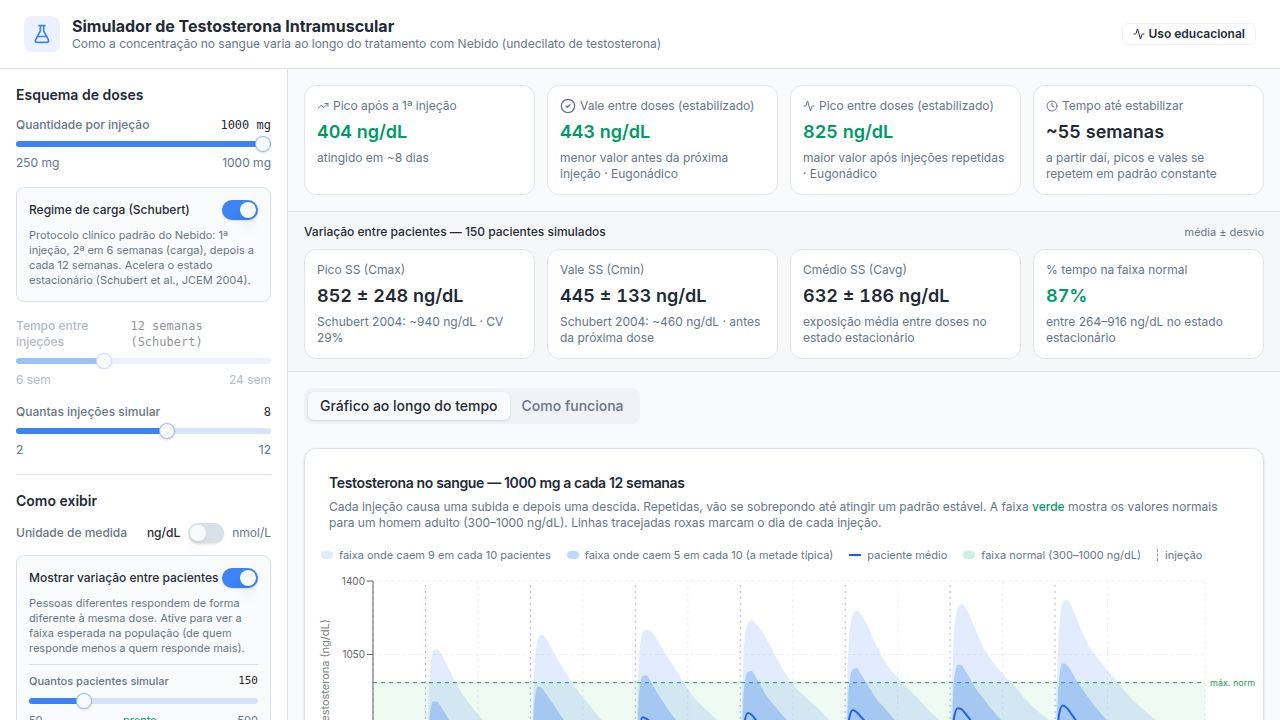
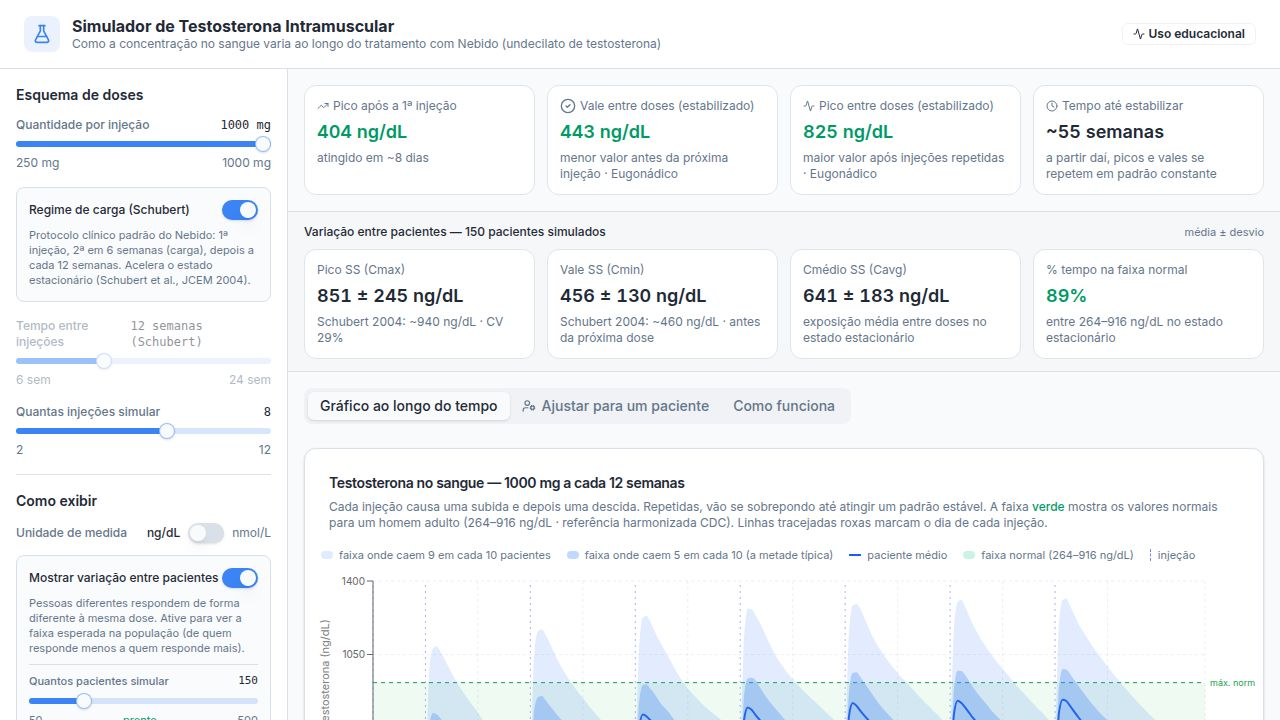
Update patient calculator to recommend optimal dosing intervals
Refactor PK engine to prioritize target average concentration and adjust UI for new input fields.

Replit-Commit-Author: Agent
Replit-Commit-Session-Id: 86e21b72-0a10-403e-b09f-dd4ca271f1e9
Replit-Commit-Checkpoint-Type: full_checkpoint
Replit-Commit-Event-Id: d2935164-4149-48c7-951f-9a43c06ecb1f
Replit-Commit-Screenshot-Url: https://storage.googleapis.com/screenshot-production-us-central1/eb01094f-dc53-41cd-80e8-84685250eafb/86e21b72-0a10-403e-b09f-dd4ca271f1e9/sl7JSYE
Replit-Helium-Checkpoint-Created: true

diff --git a/artifacts/pk-simulator/src/pages/simulator.tsx b/artifacts/pk-simulator/src/pages/simulator.tsx
@@ -219,7 +219,7 @@ export default function Simulator() {
     intervaloSemanas: "12",
     cmaxObs: "",
     cminObs: "",
-    cavgObs: "",
+    cavgAlvo: "600",
   });
   const [recomendacao, setRecomendacao] = useState<RecomendacaoIntervalo | null>(null);
 
@@ -228,17 +228,17 @@ export default function Simulator() {
     const intSem = parseFloat(pacienteIn.intervaloSemanas);
     const cmax = parseFloat(pacienteIn.cmaxObs);
     const cmin = parseFloat(pacienteIn.cminObs);
-    const cavg = parseFloat(pacienteIn.cavgObs);
+    const alvo = parseFloat(pacienteIn.cavgAlvo);
     if (!isFinite(dose) || dose <= 0) return;
     if (!isFinite(intSem) || intSem <= 0) return;
-    const haAlguma = isFinite(cmax) || isFinite(cmin) || isFinite(cavg);
+    const haAlguma = isFinite(cmax) || isFinite(cmin);
     if (!haAlguma) return;
     const r = recomendarIntervalo({
       doseMg: dose,
       intervaloDias: intSem * 7,
       cmaxObsNgdl: isFinite(cmax) ? cmax : undefined,
       cminObsNgdl: isFinite(cmin) ? cmin : undefined,
-      cavgObsNgdl: isFinite(cavg) ? cavg : undefined,
+      cavgAlvoNgdl: isFinite(alvo) && alvo > 0 ? alvo : 600,
     });
     setRecomendacao(r);
   }, [pacienteIn]);
@@ -801,7 +801,10 @@ export default function Simulator() {
 
                       <div className="space-y-3">
                         <p className="text-[11px] uppercase tracking-wide text-muted-foreground font-medium">
-                          Medidas laboratoriais (ng/dL)
+                          1) Exames do paciente (ng/dL)
+                        </p>
+                        <p className="text-[11px] text-muted-foreground leading-snug">
+                          Informe pelo menos UM dos dois valores abaixo (preferencialmente os dois). O sistema usa essas medidas para identificar o metabolismo individual deste paciente.
                         </p>
 
                         <div className="space-y-1.5">
@@ -831,20 +834,44 @@ export default function Simulator() {
                             onChange={e => setPacienteIn(p => ({ ...p, cminObs: e.target.value }))}
                           />
                         </div>
+                      </div>
 
-                        <div className="space-y-1.5">
-                          <Label className="text-xs flex items-center justify-between">
-                            <span>Concentração média (opcional)</span>
-                            <span className="text-[10px] text-muted-foreground">se conhecida</span>
-                          </Label>
-                          <Input
-                            data-testid="input-cavg"
-                            type="number" inputMode="decimal" min={0} step={10}
-                            placeholder="opcional"
-                            value={pacienteIn.cavgObs}
-                            onChange={e => setPacienteIn(p => ({ ...p, cavgObs: e.target.value }))}
-                          />
+                      <Separator />
+
+                      <div className="space-y-2">
+                        <p className="text-[11px] uppercase tracking-wide text-muted-foreground font-medium">
+                          2) Concentração média desejada
+                        </p>
+                        <Label className="text-xs flex items-center justify-between">
+                          <span>Cavg-alvo (ng/dL)</span>
+                          <span className="text-[10px] text-muted-foreground">faixa: {EUGONADAL_MIN_NGDL}–{EUGONADAL_MAX_NGDL}</span>
+                        </Label>
+                        <Input
+                          data-testid="input-cavg-alvo"
+                          type="number" inputMode="decimal" min={EUGONADAL_MIN_NGDL} max={EUGONADAL_MAX_NGDL} step={10}
+                          placeholder="600"
+                          value={pacienteIn.cavgAlvo}
+                          onChange={e => setPacienteIn(p => ({ ...p, cavgAlvo: e.target.value }))}
+                        />
+                        <div className="flex gap-1.5 flex-wrap pt-1">
+                          {[400, 500, 600, 700, 800].map(v => (
+                            <button
+                              key={v}
+                              type="button"
+                              onClick={() => setPacienteIn(p => ({ ...p, cavgAlvo: String(v) }))}
+                              className={`text-[10px] px-2 py-0.5 rounded-md border transition-colors ${
+                                pacienteIn.cavgAlvo === String(v)
+                                  ? "bg-primary text-primary-foreground border-primary"
+                                  : "bg-background text-muted-foreground border-border hover:bg-muted"
+                              }`}
+                            >
+                              {v}
+                            </button>
+                          ))}
                         </div>
+                        <p className="text-[11px] text-muted-foreground leading-snug">
+                          Meta de testosterona média no sangue deste paciente. Faixa fisiológica média: 500–700 ng/dL. O sistema vai escolher o intervalo que mais se aproxima desta meta mantendo o vale acima de {EUGONADAL_MIN_NGDL}.
+                        </p>
                       </div>
 
                       <Button
@@ -854,12 +881,6 @@ export default function Simulator() {
                       >
                         Calcular intervalo ideal
                       </Button>
-
-                      <p className="text-[11px] text-muted-foreground leading-snug">
-                        O sistema usa as medidas reais para estimar a sensibilidade individual deste paciente
-                        (quanto a testosterona dele sobe com cada mg de dose) e simula como ficariam o pico
-                        e o vale em diferentes intervalos.
-                      </p>
                     </CardContent>
                   </Card>
 
@@ -925,39 +946,77 @@ export default function Simulator() {
                           </CardContent>
                         </Card>
 
-                        {/* Sensibilidade individual */}
+                        {/* Perfil individual: metabolismo + Cavg atual calculado */}
                         <Card>
                           <CardHeader className="pb-2">
-                            <CardTitle className="text-sm">Perfil deste paciente</CardTitle>
+                            <CardTitle className="text-sm">Perfil deste paciente — metabolismo e situação atual</CardTitle>
+                            <CardDescription className="text-xs">
+                              Calculado a partir das medidas laboratoriais informadas, no regime atual ({parseFloat(pacienteIn.doseMg)} mg a cada {parseFloat(pacienteIn.intervaloSemanas)} semanas).
+                            </CardDescription>
                           </CardHeader>
-                          <CardContent className="space-y-2 text-sm">
-                            <div className="flex items-center justify-between">
-                              <span className="text-muted-foreground">Sensibilidade à dose</span>
-                              <span className="font-mono font-semibold">
-                                {(recomendacao.fatorIndividual * 100).toFixed(0)}% da média populacional
-                              </span>
+                          <CardContent className="space-y-3">
+                            {/* Cavg calculado — destaque principal */}
+                            <div className="rounded-lg bg-primary/5 border border-primary/20 p-3 flex items-baseline gap-3">
+                              <div className="flex-1">
+                                <div className="text-[11px] text-muted-foreground uppercase tracking-wide">
+                                  Concentração média atual (calculada)
+                                </div>
+                                <div className="text-2xl font-bold tabular-nums text-primary">
+                                  {Math.round(recomendacao.cenarioAtual.cavgSSNgdl)} <span className="text-sm font-normal text-muted-foreground">ng/dL</span>
+                                </div>
+                              </div>
+                              <div className="text-right">
+                                <div className="text-[11px] text-muted-foreground">alvo desejado</div>
+                                <div className="text-base font-semibold tabular-nums">
+                                  {Math.round(recomendacao.cavgAlvoNgdl)} ng/dL
+                                </div>
+                                <div className={`text-[11px] font-medium ${
+                                  Math.abs(recomendacao.cenarioAtual.cavgSSNgdl - recomendacao.cavgAlvoNgdl) < 50
+                                    ? "text-emerald-600 dark:text-emerald-400"
+                                    : recomendacao.cenarioAtual.cavgSSNgdl > recomendacao.cavgAlvoNgdl
+                                      ? "text-rose-600 dark:text-rose-400"
+                                      : "text-amber-600 dark:text-amber-400"
+                                }`}>
+                                  {(() => {
+                                    const d = recomendacao.cenarioAtual.cavgSSNgdl - recomendacao.cavgAlvoNgdl;
+                                    if (Math.abs(d) < 50) return "no alvo";
+                                    return `${d > 0 ? "+" : ""}${Math.round(d)} ng/dL`;
+                                  })()}
+                                </div>
+                              </div>
                             </div>
-                            <p className="text-xs text-muted-foreground leading-relaxed">
-                              Este paciente {recomendacao.classificacaoSensibilidade}. Com base nos exames informados,
-                              cada miligrama de undecilato gera <strong className="text-foreground">{(recomendacao.fatorIndividual).toFixed(2)}×</strong> a concentração
-                              que geraria em um paciente de resposta típica.
-                            </p>
-                            <Separator className="my-2" />
+
                             <div className="grid grid-cols-3 gap-2 text-xs">
-                              <div>
-                                <div className="text-[10px] text-muted-foreground">Pico no regime atual</div>
-                                <div className="font-mono font-medium">{Math.round(recomendacao.cenarioAtual.cmaxSSNgdl)} ng/dL</div>
+                              <div className="rounded-lg border border-border bg-background p-2">
+                                <div className="text-[10px] text-muted-foreground">Pico atual</div>
+                                <div className="font-mono font-semibold">{Math.round(recomendacao.cenarioAtual.cmaxSSNgdl)} ng/dL</div>
                               </div>
-                              <div>
-                                <div className="text-[10px] text-muted-foreground">Vale no regime atual</div>
-                                <div className="font-mono font-medium">{Math.round(recomendacao.cenarioAtual.cminSSNgdl)} ng/dL</div>
+                              <div className="rounded-lg border border-border bg-background p-2">
+                                <div className="text-[10px] text-muted-foreground">Vale atual</div>
+                                <div className="font-mono font-semibold">{Math.round(recomendacao.cenarioAtual.cminSSNgdl)} ng/dL</div>
                               </div>
-                              <div>
-                                <div className="text-[10px] text-muted-foreground">Tempo na faixa atual</div>
-                                <div className={`font-mono font-medium ${recomendacao.cenarioAtual.percentEugonadal >= 90 ? "text-emerald-600" : recomendacao.cenarioAtual.percentEugonadal >= 70 ? "text-amber-600" : "text-rose-600"}`}>
+                              <div className="rounded-lg border border-border bg-background p-2">
+                                <div className="text-[10px] text-muted-foreground">Tempo na faixa</div>
+                                <div className={`font-mono font-semibold ${recomendacao.cenarioAtual.percentEugonadal >= 90 ? "text-emerald-600" : recomendacao.cenarioAtual.percentEugonadal >= 70 ? "text-amber-600" : "text-rose-600"}`}>
                                   {recomendacao.cenarioAtual.percentEugonadal.toFixed(0)}%
                                 </div>
                               </div>
+                            </div>
+
+                            <Separator />
+
+                            <div className="text-xs">
+                              <div className="flex items-center justify-between mb-1">
+                                <span className="text-muted-foreground">Sensibilidade à dose deste paciente</span>
+                                <span className="font-mono font-semibold">
+                                  {(recomendacao.fatorIndividual * 100).toFixed(0)}% da média
+                                </span>
+                              </div>
+                              <p className="text-[11px] text-muted-foreground leading-relaxed">
+                                Este paciente {recomendacao.classificacaoSensibilidade}. Cada miligrama de undecilato
+                                gera <strong className="text-foreground">{recomendacao.fatorIndividual.toFixed(2)}×</strong> a
+                                concentração que geraria em um paciente de resposta típica.
+                              </p>
                             </div>
                           </CardContent>
                         </Card>

diff --git a/artifacts/pk-simulator/src/lib/pk-engine.ts b/artifacts/pk-simulator/src/lib/pk-engine.ts
@@ -481,11 +481,11 @@ export function simularMonteCarlo(
 // =====================================================================
 
 export interface MedidaPaciente {
-  doseMg: number;          // dose atual (mg)
-  intervaloDias: number;   // intervalo atual (dias)
-  cmaxObsNgdl?: number;    // pico medido no estado estacionário (ng/dL)
-  cminObsNgdl?: number;    // vale medido antes da próxima dose (ng/dL)
-  cavgObsNgdl?: number;    // concentração média medida (opcional)
+  doseMg: number;            // dose atual (mg)
+  intervaloDias: number;     // intervalo atual (dias)
+  cmaxObsNgdl?: number;      // pico medido no estado estacionário (ng/dL)
+  cminObsNgdl?: number;      // vale medido antes da próxima dose (ng/dL)
+  cavgAlvoNgdl?: number;     // concentração média desejada (alvo terapêutico) — default 600
 }
 
 export interface IntervaloAvaliado {
@@ -502,7 +502,8 @@ export interface RecomendacaoIntervalo {
   fatorIndividual: number;            // S_individual / S_pop (sensibilidade relativa)
   classificacaoSensibilidade: string; // "responde menos", "típico", "responde mais"
   parametrosIndividuais: ParametrosPK;
-  cenarioAtual: IntervaloAvaliado;    // como está hoje
+  cenarioAtual: IntervaloAvaliado;    // como está hoje (com Cavg calculado!)
+  cavgAlvoNgdl: number;               // alvo terapêutico usado
   intervalosAvaliados: IntervaloAvaliado[]; // grade 6–16 sem
   intervaloRecomendadoDias: number;
   justificativa: string;
@@ -545,7 +546,7 @@ export function estimarParametrosIndividuais(
   const razoes: number[] = [];
   if (medida.cmaxObsNgdl && cmaxPred > 0) razoes.push(medida.cmaxObsNgdl / cmaxPred);
   if (medida.cminObsNgdl && cminPred > 0) razoes.push(medida.cminObsNgdl / cminPred);
-  if (medida.cavgObsNgdl && cavgPred > 0) razoes.push(medida.cavgObsNgdl / cavgPred);
+  void cavgPred; // Cavg do paciente é OUTPUT, não INPUT
   if (razoes.length === 0) {
     return { params: params0, scale: 1 };
   }
@@ -615,34 +616,51 @@ function avaliarIntervalo(
  */
 export function recomendarIntervalo(medida: MedidaPaciente): RecomendacaoIntervalo {
   const { params, scale } = estimarParametrosIndividuais(medida);
+  const cavgAlvo = medida.cavgAlvoNgdl ?? 600; // alvo terapêutico padrão (meio da faixa)
 
-  // Grade de intervalos: 6 a 16 semanas (passo 1 sem)
+  // Grade de intervalos: 4 a 18 semanas (passo 1 sem) — varredura ampla
   const intervalos: number[] = [];
-  for (let s = 6; s <= 16; s++) intervalos.push(s * 7);
+  for (let s = 4; s <= 18; s++) intervalos.push(s * 7);
 
   const avaliacoes = intervalos.map(td => avaliarIntervalo(medida.doseMg, td, params));
   const cenarioAtual = avaliarIntervalo(medida.doseMg, medida.intervaloDias, params);
 
-  // Selecionar recomendação
-  const ok = avaliacoes.filter(a => a.cminSSNgdl >= EUGONADAL_MIN_NGDL && a.cmaxSSNgdl <= EUGONADAL_MAX_NGDL);
+  // Selecionar recomendação:
+  //   PRIORIDADE 1: Cmin ≥ EUGONADAL_MIN (sem hipogonadismo entre doses)
+  //   ENTRE OS QUE PASSAM: aquele cujo Cavg mais se aproxima do alvo do paciente
+  //   FILTRO ADICIONAL: penalizar Cmax > EUGONADAL_MAX
+  const seguros = avaliacoes.filter(a => a.cminSSNgdl >= EUGONADAL_MIN_NGDL);
+
   let recomendado: IntervaloAvaliado;
   let justificativa: string;
-  if (ok.length > 0) {
-    // Mais longo entre os que passam → menos injeções
-    recomendado = ok.reduce((m, a) => (a.intervaloDias > m.intervaloDias ? a : m));
-    justificativa = `Com este intervalo, o vale fica em ${Math.round(recomendado.cminSSNgdl)} ng/dL (acima de ${EUGONADAL_MIN_NGDL}) e o pico em ${Math.round(recomendado.cmaxSSNgdl)} ng/dL (abaixo de ${EUGONADAL_MAX_NGDL}). É o intervalo mais espaçado em que o paciente permanece dentro da faixa normal entre doses.`;
-  } else {
-    // Maximizar % tempo na faixa
-    recomendado = avaliacoes.reduce((m, a) => (a.percentEugonadal > m.percentEugonadal ? a : m));
-    const valeBaixo = recomendado.cminSSNgdl < EUGONADAL_MIN_NGDL;
-    const picoAlto = recomendado.cmaxSSNgdl > EUGONADAL_MAX_NGDL;
-    if (valeBaixo && !picoAlto) {
-      justificativa = `Com a dose atual (${medida.doseMg} mg), nenhum intervalo mantém o vale acima de ${EUGONADAL_MIN_NGDL} ng/dL. Este intervalo dá o melhor compromisso (${recomendado.percentEugonadal.toFixed(0)}% do tempo na faixa). Considere AUMENTAR a dose ou reduzir o intervalo.`;
-    } else if (picoAlto && !valeBaixo) {
-      justificativa = `Com a dose atual (${medida.doseMg} mg), o pico passa de ${EUGONADAL_MAX_NGDL} ng/dL em todos os intervalos testados. Considere REDUZIR a dose para evitar níveis suprafisiológicos.`;
+
+  if (seguros.length > 0) {
+    // Escolher aquele cujo Cavg está mais próximo do alvo
+    recomendado = seguros.reduce((melhor, a) => {
+      const dM = Math.abs(melhor.cavgSSNgdl - cavgAlvo);
+      const dA = Math.abs(a.cavgSSNgdl - cavgAlvo);
+      // desempate: penalizar pico acima do limite (5 ng/dL de penalidade por unidade)
+      const penM = Math.max(0, melhor.cmaxSSNgdl - EUGONADAL_MAX_NGDL);
+      const penA = Math.max(0, a.cmaxSSNgdl - EUGONADAL_MAX_NGDL);
+      return (dA + penA * 0.5) < (dM + penM * 0.5) ? a : melhor;
+    });
+
+    const dif = recomendado.cavgSSNgdl - cavgAlvo;
+    const aproxStr = Math.abs(dif) < 30 ? "praticamente igual ao alvo" :
+                     dif > 0 ? `${Math.round(Math.abs(dif))} ng/dL acima do alvo` :
+                              `${Math.round(Math.abs(dif))} ng/dL abaixo do alvo`;
+
+    if (recomendado.cmaxSSNgdl > EUGONADAL_MAX_NGDL) {
+      justificativa = `Com este intervalo, a média sérica fica em ${Math.round(recomendado.cavgSSNgdl)} ng/dL (${aproxStr} de ${cavgAlvo}) e o vale em ${Math.round(recomendado.cminSSNgdl)} ng/dL (acima de ${EUGONADAL_MIN_NGDL}, sem hipogonadismo). O pico chega a ${Math.round(recomendado.cmaxSSNgdl)} ng/dL — para reduzir o pico mantendo a média, considere reduzir a dose e encurtar proporcionalmente o intervalo.`;
     } else {
-      justificativa = `Com a dose atual (${medida.doseMg} mg), nenhum intervalo simultaneamente mantém o vale acima de ${EUGONADAL_MIN_NGDL} e o pico abaixo de ${EUGONADAL_MAX_NGDL} ng/dL. Considere ajustar a dose.`;
+      justificativa = `Com este intervalo, a média sérica deste paciente fica em ${Math.round(recomendado.cavgSSNgdl)} ng/dL (${aproxStr} de ${cavgAlvo}). O vale fica em ${Math.round(recomendado.cminSSNgdl)} ng/dL e o pico em ${Math.round(recomendado.cmaxSSNgdl)} ng/dL — ambos dentro da faixa fisiológica.`;
     }
+  } else {
+    // Nenhum intervalo mantém o vale seguro: melhor compromisso (Cavg mais próximo do alvo)
+    recomendado = avaliacoes.reduce((m, a) =>
+      Math.abs(a.cavgSSNgdl - cavgAlvo) < Math.abs(m.cavgSSNgdl - cavgAlvo) ? a : m
+    );
+    justificativa = `Com a dose atual (${medida.doseMg} mg), NENHUM intervalo testado mantém o vale acima de ${EUGONADAL_MIN_NGDL} ng/dL — o paciente terá períodos de hipogonadismo entre doses. Para atingir uma média de ${cavgAlvo} ng/dL com vale seguro, é necessário AUMENTAR a dose (e provavelmente encurtar o intervalo).`;
   }
 
   // Classificação da sensibilidade individual
@@ -656,6 +674,7 @@ export function recomendarIntervalo(medida: MedidaPaciente): RecomendacaoInterva
     classificacaoSensibilidade: classificacao,
     parametrosIndividuais: params,
     cenarioAtual,
+    cavgAlvoNgdl: cavgAlvo,
     intervalosAvaliados: avaliacoes,
     intervaloRecomendadoDias: recomendado.intervaloDias,
     justificativa,